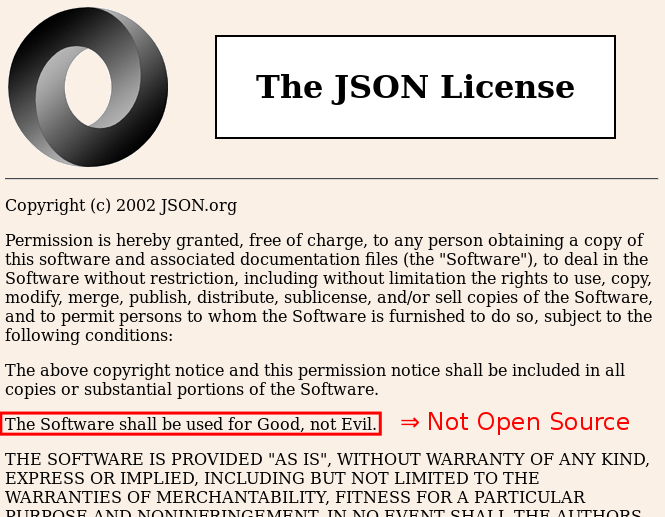
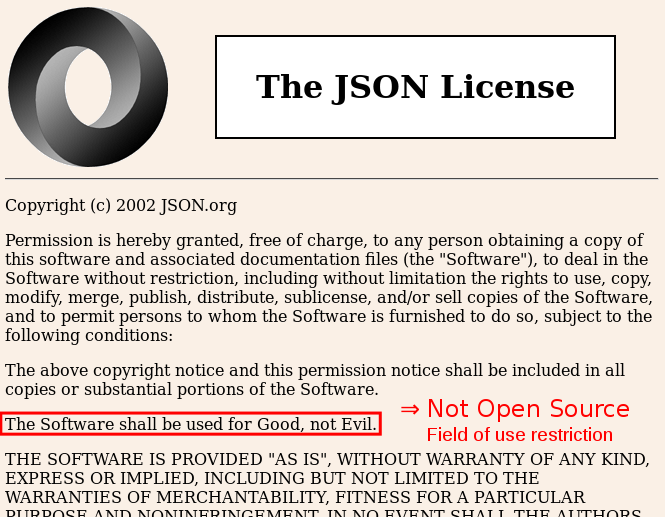
runthrough improvements

Changed region(s): [[0.6015, 0.7737, 0.9624, 0.8665]]

diff --git a/usingAndContributingToOpenSource/index.html b/usingAndContributingToOpenSource/index.html
@@ -55,13 +55,14 @@
         <h3>Who am I?</h3>
         <ul>
             <li>Java developer (graduated in 2003)</li>
-            <li>OptaPlanner Founder/Lead
+            <li>Founder/lead of Open Source project <b>OptaPlanner</b>
                 <ul>
                     <li>Customers and users around the world</li>
-                    <li>1k+ downloads per month</li>
+                    <li>1k+ zip downloads per month</li>
                     <li>255k lines of code</li>
                 </ul>
             </li>
+            <li>Contributor to 23+ Open Source projects</li>
         </ul>
     </section>
 
@@ -113,16 +114,16 @@ import javax.swing.JLabel;</code></pre>
             <tr>
                 <th></th>
                 <th>To reuse</th>
-                <th>Not to reuse</th>
+                <th>Not to reuse (NIH)</th>
             </tr>
             </thead>
             <tbody>
-            <tr>
+            <tr class="fragment">
                 <td>Development time</td>
                 <td class="positive">1 minute</td>
                 <td class="negative">2 years</td>
             </tr>
-            <tr>
+            <tr class="fragment">
                 <td>Quality</td>
                 <td class="positive">
                     High<br/>
@@ -133,12 +134,12 @@ import javax.swing.JLabel;</code></pre>
                     Exploits, slow, ...
                 </td>
             </tr>
-            <tr>
+            <tr class="fragment">
                 <td>Maintenance time</td>
                 <td class="positive">low (upgrades)</td>
                 <td class="negative">high (rewrites)</td>
             </tr>
-            <tr>
+            <tr class="fragment">
                 <td>Dependencies?</td>
                 <td class="negative">Yes</td>
                 <td class="positive">No</td>
@@ -155,6 +156,18 @@ import javax.swing.JLabel;</code></pre>
         <img src="use/dependencyTreeSimple_3.png" class="fullImage fragment">
         <img src="use/dependencyTreeSimple_4.png" class="fullImage fragment">
         <img src="use/dependencyTreeSimple_5.png" class="fullImage fragment">
+    </section>
+    <section>
+        <h3>What is Open Source?</h3>
+        <ul>
+            <li>Source code included</li>
+            <li>Right to modify</li>
+            <li><b>Free redistribution</b></li>
+            <li>No fields of use restrictions</li>
+            <li>... (see opensource.org)</li>
+        </ul>
+        <br/>
+        <p>⇒ Formalized by a License</p>
     </section>
     <section>
         <img src="use/openSourceCommunismJoke.jpg">
@@ -228,18 +241,6 @@ import javax.swing.JLabel;</code></pre>
         <img src="license/licenseOnHomepage.png" class="fullImage">
     </section>
     <section>
-        <h3>What is Open Source?</h3>
-        <ul>
-            <li>Source code included</li>
-            <li>Free redistribution</li>
-            <li>Right to modify</li>
-            <li>No fields of use restrictions</li>
-            <li>... (see opensource.org)</li>
-        </ul>
-        <br/>
-        <p>⇒ Formalized by a License</p>
-    </section>
-    <section>
         <img src="license/licenceGoodNotEvil.png" class="fullImage">
     </section>
     <section>
@@ -252,7 +253,9 @@ import javax.swing.JLabel;</code></pre>
         <img src="license/licenceGoodNotEvilNotOpenSource.png" class="fullImage">
     </section>
     <section>
-        <h3>Normal Open Source licenses</h3>
+        <h3>Avoid exotic licenses</h3>
+        <br/>
+        <p>Normal Open Source licenses</p>
         <ul>
             <li>MIT</li>
             <li>BSD</li>
@@ -264,7 +267,6 @@ import javax.swing.JLabel;</code></pre>
             <li>AGPL</li>
         </ul>
         <br/>
-        <p><b>Avoid other Open Source licenses.</b></p>
     </section>
     <section>
         <img src="use/dependencyTreeLicense_0.png" class="fullImage">
@@ -286,7 +288,6 @@ import javax.swing.JLabel;</code></pre>
         <img src="license/commercialFriendliness_3.png" class="fullImage fragment">
         <img src="license/commercialFriendliness_4.png" class="fullImage fragment">
         <img src="license/commercialFriendliness_5.png" class="fullImage fragment">
-        <img src="license/commercialFriendliness_6.png" class="fullImage fragment">
     </section>
     <section>
         <h3>FAQ</h3>
@@ -308,6 +309,8 @@ import javax.swing.JLabel;</code></pre>
     <section>
         <h3>IANAL</h3>
         <p class="fragment">I am not a lawyer</p>
+        <h3 class="fragment">TINLA</h3>
+        <p class="fragment">This is not legal advice</p>
         <br/>
         <p class="fragment">
             All licenses (open source or proprietary)<br/>
@@ -367,6 +370,8 @@ import javax.swing.JLabel;</code></pre>
         </ul>
         <br/>
         <p class="fragment">Similar to Android's Play store, IPhone's App store,<br/> Fedora's rpm repository, Ubuntu's deb repository, ..</p>
+        <br/>
+        <p class="fragment">Easy to consume updates (bugfixes, ...)</p>
     </section>
     <section>
         <h3>search.maven.org / mvnrepository.com</h3>
@@ -394,9 +399,10 @@ import javax.swing.JLabel;</code></pre>
             </li>
             <li>Hosted on
                 <ul>
-                    <li class="positive"><b>GitHub.com</b></li>
+                    <li class="positive"><b>GitHub.com</b> (10m+ repositories)</li>
                     <li class="positive">Bitbucket.org</li>
                     <li class="positive">GitLab.com</li>
+                    <li class="negative">SourceForge.net</li>
                 </ul>
             </li>
         </ul>
@@ -404,14 +410,6 @@ import javax.swing.JLabel;</code></pre>
     <section>
         <h3>GitHub commit history</h3>
         <img src="sourceControl/commitHistory.png">
-    </section>
-    <section>
-        <h3>Easy to build from source</h3>
-        <pre xml:space="preserve"><code class="sh">$ git clone https://github.com/droolsjbpm/optaplanner.git
-...
-$ cd optaplanner
-$ mvn clean install -DskipTests
-...</code></pre>
     </section>
     <section>
         <h3>Fork it!</h3>
@@ -428,27 +426,33 @@ $ mvn clean install -DskipTests
             <p>My fork:</p>
             <img src="sourceControl/githubMyFork.png">
             <p class="fragment">My changes do <i>not</i> affect <i>blessed</i>.</p>
-            <p class="fragment">Easy to pull new commits from <i>blessed</i>.</p>
+            <p class="fragment">Easy to pull upstream changes from <i>blessed</i>.</p>
         </div>
+    </section>
+    <section>
+        <h3>Easy to build from source</h3>
+        <pre xml:space="preserve"><code class="sh">$ git clone https://github.com/droolsjbpm/optaplanner.git
+...
+$ cd optaplanner
+$ mvn clean install -DskipTests
+...</code></pre>
     </section>
     <section>
         <h3>Why share your modifications?</h3>
         <ul>
-            <li>Reduce maintenance
+            <li>Feedback/review from project committers</li>
+            <li class="fragment">Reduce maintenance if accepted
                 <ul>
-                    <li>Your modifications are in all future releases</li>
-                    <li>No merging with upstream changes</li>
-                    <li>No need to do releases</li>
+                    <li>Fixed in all future releases</li>
+                    <li>No need to pull upstream changes (no merge conflicts)</li>
                 </ul>
             </li>
-            <li class="fragment">Get feedback from project committers</li>
-            <li class="fragment">Gain respect (= power in a meritocracy)</li>
         </ul>
     </section>
     <section>
         <h3>How do you share your modifications?</h3>
         <ul>
-            <li class="negative">Patch file
+            <li class="negative">Patch file (diff)
                 <ul>
                     <li>Goes stale</li>
                     <li>No review support</li>
@@ -457,8 +461,11 @@ $ mvn clean install -DskipTests
             <li class="positive"><b>Pull Request</b>
                 <ul>
                     <li>Send Pull Request</li>
-                    <li>Committers review it</li>
-                    <li>Fix review comments</li>
+                    <li>Committers review it
+                        <ul>
+                            <li>Fix any review comments</li>
+                        </ul>
+                    </li>
                     <li>Committers merge it in <i>blessed</i></li>
                 </ul>
             </li>
@@ -499,12 +506,22 @@ $ mvn clean install -DskipTests
         <img src="businessModel/meritocracy_3.png" class="fullImage fragment">
     </section>
     <section>
+        <img src="businessModel/longTailOfContributors.png" class="fullImage">
+    </section>
+    <section>
+        <h3>Healthy Open Source project</h3>
+        <ul>
+            <li><b>Some of the committers needs to be payed<br/>to work on it full time.</b></li>
+            <li>Possible to buy support</li>
+        </ul>
+    </section>
+    <section>
         <h3>Communication</h3>
         <ul>
             <li>Issue tracker</li>
             <li>Mailing list
                 <ul>
-                    <li>Use gmane.org (NNTP or web) to avoid flood</li>
+                    <li>gmane.org (NNTP or web) avoids inbox flood</li>
                 </ul>
             </li>
             <li><b>IRC</b> (90's chat, like Slack)
@@ -514,16 +531,6 @@ $ mvn clean install -DskipTests
                     <li>Video conferencing for complex discussions</li>
                 </ul>
             </li>
-        </ul>
-    </section>
-    <section>
-        <img src="businessModel/longTailOfContributors.png" class="fullImage">
-    </section>
-    <section>
-        <h3>Healthy Open Source project</h3>
-        <ul>
-            <li><b>Some of the committers needs to be payed<br/>to work on it full time.</b></li>
-            <li>Possible to buy support</li>
         </ul>
     </section>
     <section>
@@ -547,22 +554,21 @@ $ mvn clean install -DskipTests
         </ul>
     </section>
     <section>
-        <h3>Apache Foundation / Eclipse Community</h3>
+        <h3>Apache Foundation</h3>
         <ul>
             <li class="positive">Neutral ground</li>
             <li class="positive">Infrastructure sponsored</li>
-            <li class="positive">No dictator</li>
             <li>Voting system:
                 <ul>
                     <li>+1: Do the change</li>
                     <li>+0: I don't care</li>
-                    <li>-1: I veto the change (requires motivation)</li>
+                    <li>-1: I <b>veto</b> the change (requires motivation)</li>
                 </ul>
             </li>
             <li class="negative">Politics can kill successful projects
                 <ul>
                     <li>Log4J 1.x died when main committer got veto'ed</li>
-                    <li>Maven 3 flatlined after dispute<br/> with main contributing company (now mostly fixed)</li>
+                    <li>Maven 3 flatlined after dispute<br/> with main committing company (now mostly fixed)</li>
                 </ul>
             </li>
         </ul>
@@ -575,24 +581,33 @@ $ mvn clean install -DskipTests
                     <li>Paid full-time committers</li>
                 </ul>
             </li>
-            <li class="positive">Fear of fork reduces power abuse
+            <li class="positive">(Perceived) power abuse ⇒ Fork
             <ul>
-                <li>OpenOffice got forked as LibreOffice</li>
-                <li>Hudson got forked as Jenkins</li>
+                <li>OpenOffice ⇒ LibreOffice</li>
+                <li>Hudson ⇒ Jenkins</li>
             </ul>
             </li>
-            <li>Often benevolent dictator (project lead)
-                <ul>
-                    <li>Listens to company and community</li>
-                </ul>
-            </li>
+            <li>Company hierarchy between committers</li>
             <li class="negative">Potential conflict of interest
                 <ul>
                     <li>Depends on the business model</li>
-                    <li>Balancing act for project lead</li>
+                    <li>Project lead balances community vs company needs</li>
                 </ul>
             </li>
         </ul>
+    </section>
+    <section>
+        <h3>Open Source business models</h3>
+        <ul>
+            <li>Dual-licensing (GPL/proprietary)
+                <ul>
+                    <li>MySQL</li>
+                </ul>
+            </li>
+        </ul>
+    </section>
+    <section>
+        <img src="license/commercialFriendliness_6.png" class="fullImage">
     </section>
     <section>
         <h3>Open Source business models</h3>
@@ -607,17 +622,16 @@ $ mvn clean install -DskipTests
                     <li>IntelliJ</li>
                 </ul>
             </li>
-            <li>Sell support/consultancy
+            <li class="fragment">Sell support/consultancy
                 <ul>
-                    <li>All Red Hat projects</li>
-                    <li>IBM projects</li>
+                    <li>Red Hat</li>
                     <li>Most Apache projects</li>
                 </ul>
             </li>
-            <li>Get contributions on not core business software
+            <li class="fragment">Get external input (on not core business software)
                 <ul>
-                    <li>Google projects</li>
-                    <li>Facebook projects</li>
+                    <li>Google</li>
+                    <li>Facebook</li>
                 </ul>
             </li>
         </ul>
@@ -629,8 +643,13 @@ $ mvn clean install -DskipTests
     <section>
         <h3>Typical quality indicators</h3>
         <ul class="fragment">
-            <li>Unit tests</li>
-            <li>Test coverage</li>
+            <li>Test coverage
+                <ul>
+                    <li>Unit tests</li>
+                    <li>Integration tests</li>
+                    <li>Stress tests</li>
+                </ul>
+            </li>
             <li>Continuous integration</li>
             <li>Documentation</li>
         </ul>
@@ -639,6 +658,7 @@ $ mvn clean install -DskipTests
         <h3>Is Open Source better than proprietary?</h3>
         <br/>
         <h3 class="fragment"><b>Depends on the project!</b></h3>
+        <p class="fragment">(but it helps a bit)</p>
     </section>
     <section>
         <h2>Summary</h2>
